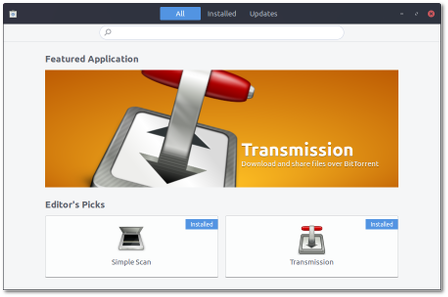
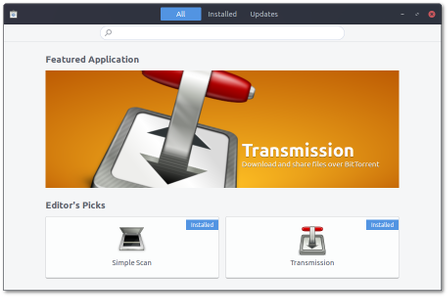
New slide featuring XfDashboard
- Remove the slide showing GNOME's accessibility features
- Fix the strange opaque corners in screenshots of LibreOffice, Firefox and GNOME Software

diff --git a/slideshows/budgie-remix/slides/dashboard.html b/slideshows/budgie-remix/slides/dashboard.html
@@ -1,0 +1,13 @@
+<div class="header">
+    <h1 class="slidetitle">App Dashboard with Workspaces</h1>
+</div>
+
+<div class="main">
+    <div class="text">
+            budgie-remix ships with a hidden feature: <strong>XfDashboard</strong>. Press <strong>CTRL+TAB</strong> to summon the dashboard.
+            <br/><br/>
+            XDashboard provides a GNOME Shell like interface with app overview, search and workspaces support.
+    </div>
+
+    <img class="screenshot" src="screenshots/dashboard.png"/>
+</div>

diff --git a/slideshows/budgie-remix/slides/index.html b/slideshows/budgie-remix/slides/index.html
@@ -35,7 +35,7 @@
 				<div><a href="media.html"></a></div>
 				<div><a href="photos.html"></a></div>
 				<div><a href="software.html"></a></div>
-				<div><a href="accessibility.html"></a></div>
+				<div><a href="dashboard.html"></a></div>
 				<div><a href="gethelp.html"></a></div>
 			</div>
 
